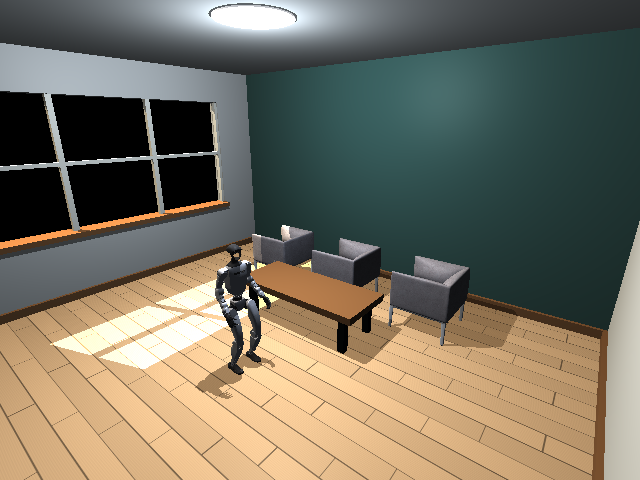
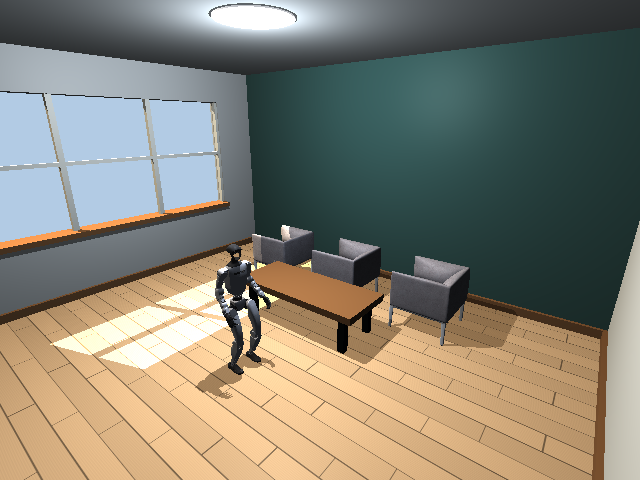
Add a blue Warp sky and keep overview comparisons and GIFs

Changed region(s): [[0.0, 0.1875, 0.3438, 0.5]]

diff --git a/examples/windowed_office.py b/examples/windowed_office.py
@@ -105,6 +105,18 @@ def main(
     ),
     "cuda:0",
   )
+  if backend == "mujoco_warp":
+    # Warp displays sky texture bytes directly; match HyperLux's sRGB output.
+    sky_rgb = tuple(1.055 * value ** (1 / 2.4) - 0.055 for value in (0.45, 0.60, 0.78))
+    scene.spec.add_texture(
+      name="sky",
+      type=mujoco.mjtTexture.mjTEXTURE_SKYBOX,
+      builtin=mujoco.mjtBuiltin.mjBUILTIN_FLAT,
+      width=16,
+      height=16,
+      rgb1=sky_rgb,
+      rgb2=sky_rgb,
+    )
   model = scene.compile()
   model.vis.headlight.active = 0
   for light in range(model.nlight):

diff --git a/README.md b/README.md
@@ -59,7 +59,8 @@ saved comparisons, not bundled scene assets.
 RTX 4090, 4096 environments, one 640x480 RGB camera per environment. Cameras
 and lights are fixed; robot roots move sideways with fixed joints. All
 replicas use the same motion phase. HyperLux uses AA1 and batch 128; Warp
-uses native RGB.
+uses native RGB. The Warp timings below predate the blue-sky update and
+used a black background; the three sunlit scenes will be remeasured.
 
 Throughput is aggregate images per second. Speedup is HyperLux / Warp.
 
@@ -106,8 +107,9 @@ each backend. Sunlit RTX scenes also use a sky dome.
 
 The same lighting calibration is shared across scenes. HyperLux's diffuse-fill
 estimate does not reproduce RTX global illumination. Windowed rooms can look
-brighter and flatter, and some warehouse areas darker. Warp shows black outside
-the geometry. The outdoor RTX view is overexposed at this indoor exposure.
+brighter and flatter, and some warehouse areas darker. HyperLux and Warp use
+a matching solid blue background in sunlit scenes; this adds no illumination.
+The outdoor RTX view is overexposed at this indoor exposure.
 
 The GIFs move only the robot, with the same 24-frame loop and fixed lights.
 Playback is 10 fps, not a measure of renderer speed. GIF palette quantization
@@ -118,8 +120,6 @@ can introduce small color differences from the PNGs.
 | View | HyperLux | MuJoCo Warp | Isaac RTX |
 | --- | --- | --- | --- |
 | Overview | ![Windowed office: HyperLux, overview](docs/media/windowed_office/hyperlux-overview-shadows.png) | ![Windowed office: MuJoCo Warp, overview](docs/media/windowed_office/mujoco_warp-overview-shadows.png) | ![Windowed office: Isaac RTX, overview](docs/media/windowed_office/rtx-overview.png) |
-| Eye level | ![Windowed office: HyperLux, eye level](docs/media/windowed_office/hyperlux-eye_level-shadows.png) | ![Windowed office: MuJoCo Warp, eye level](docs/media/windowed_office/mujoco_warp-eye_level-shadows.png) | ![Windowed office: Isaac RTX, eye level](docs/media/windowed_office/rtx-eye_level.png) |
-| Robot detail | ![Windowed office: HyperLux, robot detail](docs/media/windowed_office/hyperlux-robot_detail-shadows.png) | ![Windowed office: MuJoCo Warp, robot detail](docs/media/windowed_office/mujoco_warp-robot_detail-shadows.png) | ![Windowed office: Isaac RTX, robot detail](docs/media/windowed_office/rtx-robot_detail.png) |
 | Moving robot | ![Windowed office: HyperLux, moving robot](docs/media/windowed_office/hyperlux-moving-robot.gif) | ![Windowed office: MuJoCo Warp, moving robot](docs/media/windowed_office/mujoco_warp-moving-robot.gif) | ![Windowed office: Isaac RTX, moving robot](docs/media/windowed_office/rtx-moving-robot.gif) |
 
 ### Home lounge
@@ -127,8 +127,6 @@ can introduce small color differences from the PNGs.
 | View | HyperLux | MuJoCo Warp | Isaac RTX |
 | --- | --- | --- | --- |
 | Overview | ![Home lounge: HyperLux, overview](docs/media/home/hyperlux-overview-shadows.png) | ![Home lounge: MuJoCo Warp, overview](docs/media/home/mujoco_warp-overview-shadows.png) | ![Home lounge: Isaac RTX, overview](docs/media/home/rtx-overview.png) |
-| Eye level | ![Home lounge: HyperLux, eye level](docs/media/home/hyperlux-eye_level-shadows.png) | ![Home lounge: MuJoCo Warp, eye level](docs/media/home/mujoco_warp-eye_level-shadows.png) | ![Home lounge: Isaac RTX, eye level](docs/media/home/rtx-eye_level.png) |
-| Robot detail | ![Home lounge: HyperLux, robot detail](docs/media/home/hyperlux-robot_detail-shadows.png) | ![Home lounge: MuJoCo Warp, robot detail](docs/media/home/mujoco_warp-robot_detail-shadows.png) | ![Home lounge: Isaac RTX, robot detail](docs/media/home/rtx-robot_detail.png) |
 | Moving robot | ![Home lounge: HyperLux, moving robot](docs/media/home/hyperlux-moving-robot.gif) | ![Home lounge: MuJoCo Warp, moving robot](docs/media/home/mujoco_warp-moving-robot.gif) | ![Home lounge: Isaac RTX, moving robot](docs/media/home/rtx-moving-robot.gif) |
 
 ### Laboratory
@@ -136,8 +134,6 @@ can introduce small color differences from the PNGs.
 | View | HyperLux | MuJoCo Warp | Isaac RTX |
 | --- | --- | --- | --- |
 | Overview | ![Laboratory: HyperLux, overview](docs/media/laboratory/hyperlux-overview-shadows.png) | ![Laboratory: MuJoCo Warp, overview](docs/media/laboratory/mujoco_warp-overview-shadows.png) | ![Laboratory: Isaac RTX, overview](docs/media/laboratory/rtx-overview.png) |
-| Eye level | ![Laboratory: HyperLux, eye level](docs/media/laboratory/hyperlux-eye_level-shadows.png) | ![Laboratory: MuJoCo Warp, eye level](docs/media/laboratory/mujoco_warp-eye_level-shadows.png) | ![Laboratory: Isaac RTX, eye level](docs/media/laboratory/rtx-eye_level.png) |
-| Robot detail | ![Laboratory: HyperLux, robot detail](docs/media/laboratory/hyperlux-robot_detail-shadows.png) | ![Laboratory: MuJoCo Warp, robot detail](docs/media/laboratory/mujoco_warp-robot_detail-shadows.png) | ![Laboratory: Isaac RTX, robot detail](docs/media/laboratory/rtx-robot_detail.png) |
 | Moving robot | ![Laboratory: HyperLux, moving robot](docs/media/laboratory/hyperlux-moving-robot.gif) | ![Laboratory: MuJoCo Warp, moving robot](docs/media/laboratory/mujoco_warp-moving-robot.gif) | ![Laboratory: Isaac RTX, moving robot](docs/media/laboratory/rtx-moving-robot.gif) |
 
 ### Warehouse A
@@ -145,8 +141,6 @@ can introduce small color differences from the PNGs.
 | View | HyperLux | MuJoCo Warp | Isaac RTX |
 | --- | --- | --- | --- |
 | Overview | ![Warehouse A: HyperLux, overview](docs/media/windowless_warehouse_a/hyperlux-overview-shadows.png) | ![Warehouse A: MuJoCo Warp, overview](docs/media/windowless_warehouse_a/mujoco_warp-overview-shadows.png) | ![Warehouse A: Isaac RTX, overview](docs/media/windowless_warehouse_a/rtx-overview.png) |
-| Eye level | ![Warehouse A: HyperLux, eye level](docs/media/windowless_warehouse_a/hyperlux-eye_level-shadows.png) | ![Warehouse A: MuJoCo Warp, eye level](docs/media/windowless_warehouse_a/mujoco_warp-eye_level-shadows.png) | ![Warehouse A: Isaac RTX, eye level](docs/media/windowless_warehouse_a/rtx-eye_level.png) |
-| Robot detail | ![Warehouse A: HyperLux, robot detail](docs/media/windowless_warehouse_a/hyperlux-robot_detail-shadows.png) | ![Warehouse A: MuJoCo Warp, robot detail](docs/media/windowless_warehouse_a/mujoco_warp-robot_detail-shadows.png) | ![Warehouse A: Isaac RTX, robot detail](docs/media/windowless_warehouse_a/rtx-robot_detail.png) |
 | Moving robot | ![Warehouse A: HyperLux, moving robot](docs/media/windowless_warehouse_a/hyperlux-moving-robot.gif) | ![Warehouse A: MuJoCo Warp, moving robot](docs/media/windowless_warehouse_a/mujoco_warp-moving-robot.gif) | ![Warehouse A: Isaac RTX, moving robot](docs/media/windowless_warehouse_a/rtx-moving-robot.gif) |
 
 ### Warehouse B
@@ -154,8 +148,6 @@ can introduce small color differences from the PNGs.
 | View | HyperLux | MuJoCo Warp | Isaac RTX |
 | --- | --- | --- | --- |
 | Overview | ![Warehouse B: HyperLux, overview](docs/media/windowless_warehouse_b/hyperlux-overview-shadows.png) | ![Warehouse B: MuJoCo Warp, overview](docs/media/windowless_warehouse_b/mujoco_warp-overview-shadows.png) | ![Warehouse B: Isaac RTX, overview](docs/media/windowless_warehouse_b/rtx-overview.png) |
-| Eye level | ![Warehouse B: HyperLux, eye level](docs/media/windowless_warehouse_b/hyperlux-eye_level-shadows.png) | ![Warehouse B: MuJoCo Warp, eye level](docs/media/windowless_warehouse_b/mujoco_warp-eye_level-shadows.png) | ![Warehouse B: Isaac RTX, eye level](docs/media/windowless_warehouse_b/rtx-eye_level.png) |
-| Robot detail | ![Warehouse B: HyperLux, robot detail](docs/media/windowless_warehouse_b/hyperlux-robot_detail-shadows.png) | ![Warehouse B: MuJoCo Warp, robot detail](docs/media/windowless_warehouse_b/mujoco_warp-robot_detail-shadows.png) | ![Warehouse B: Isaac RTX, robot detail](docs/media/windowless_warehouse_b/rtx-robot_detail.png) |
 | Moving robot | ![Warehouse B: HyperLux, moving robot](docs/media/windowless_warehouse_b/hyperlux-moving-robot.gif) | ![Warehouse B: MuJoCo Warp, moving robot](docs/media/windowless_warehouse_b/mujoco_warp-moving-robot.gif) | ![Warehouse B: Isaac RTX, moving robot](docs/media/windowless_warehouse_b/rtx-moving-robot.gif) |
 
 ### Outdoor loading yard
@@ -163,8 +155,6 @@ can introduce small color differences from the PNGs.
 | View | HyperLux | MuJoCo Warp | Isaac RTX |
 | --- | --- | --- | --- |
 | Overview | ![Outdoor loading yard: HyperLux, overview](docs/media/outdoor/hyperlux-overview-shadows.png) | ![Outdoor loading yard: MuJoCo Warp, overview](docs/media/outdoor/mujoco_warp-overview-shadows.png) | ![Outdoor loading yard: Isaac RTX, overview](docs/media/outdoor/rtx-overview.png) |
-| Eye level | ![Outdoor loading yard: HyperLux, eye level](docs/media/outdoor/hyperlux-eye_level-shadows.png) | ![Outdoor loading yard: MuJoCo Warp, eye level](docs/media/outdoor/mujoco_warp-eye_level-shadows.png) | ![Outdoor loading yard: Isaac RTX, eye level](docs/media/outdoor/rtx-eye_level.png) |
-| Robot detail | ![Outdoor loading yard: HyperLux, robot detail](docs/media/outdoor/hyperlux-robot_detail-shadows.png) | ![Outdoor loading yard: MuJoCo Warp, robot detail](docs/media/outdoor/mujoco_warp-robot_detail-shadows.png) | ![Outdoor loading yard: Isaac RTX, robot detail](docs/media/outdoor/rtx-robot_detail.png) |
 | Moving robot | ![Outdoor loading yard: HyperLux, moving robot](docs/media/outdoor/hyperlux-moving-robot.gif) | ![Outdoor loading yard: MuJoCo Warp, moving robot](docs/media/outdoor/mujoco_warp-moving-robot.gif) | ![Outdoor loading yard: Isaac RTX, moving robot](docs/media/outdoor/rtx-moving-robot.gif) |
 
 ## Limits and license
